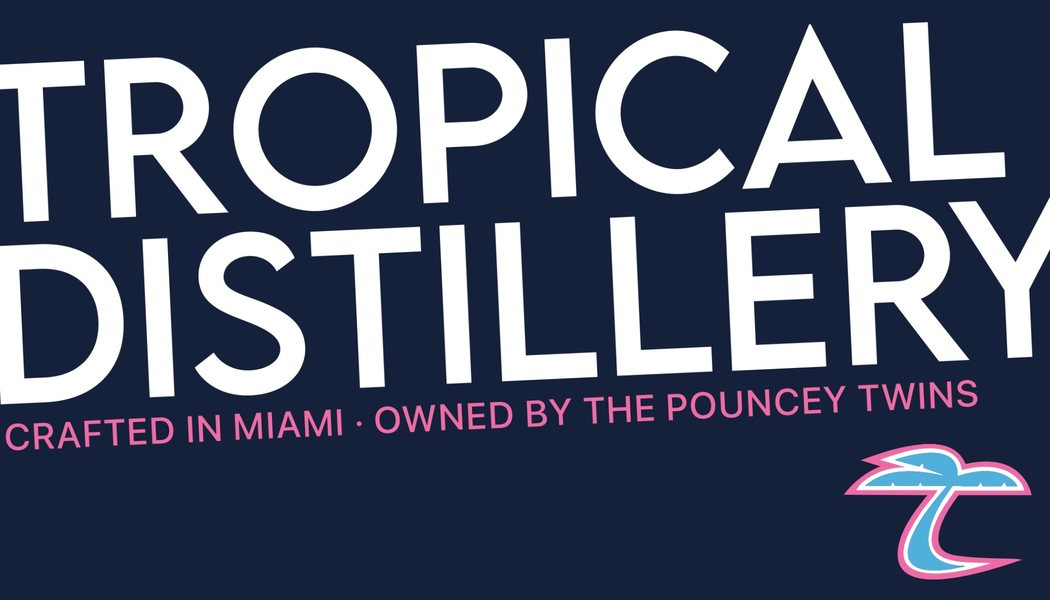
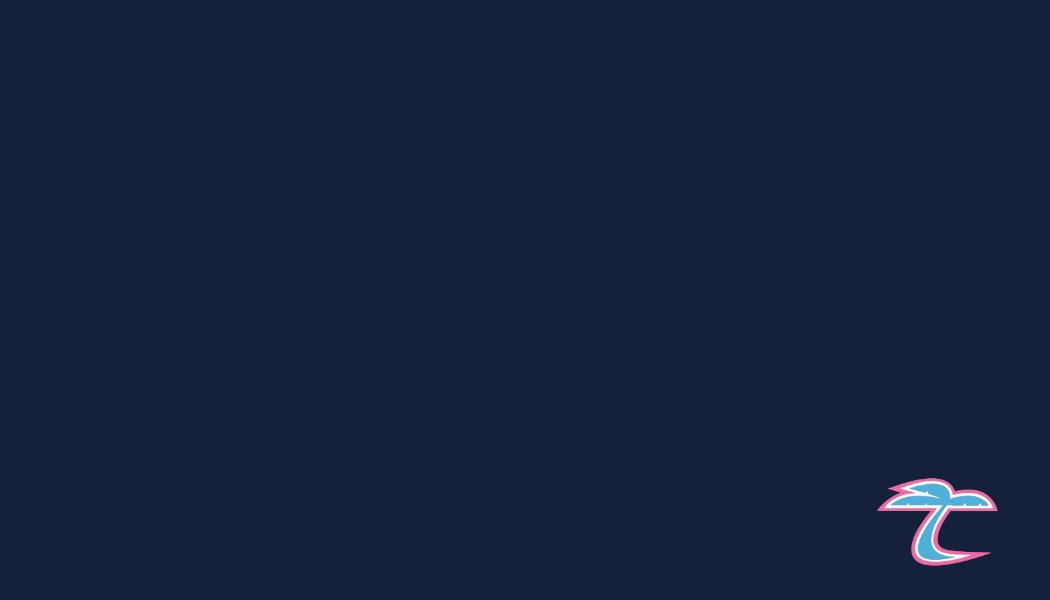
Business cards: a new back, level, with the Instagram handles
TROPICAL DISTILLERY now sits level in two lines of the same width, with
the tagline in pink under it and the palm in the bottom right corner. A
row along the bottom gives the Instagram handles: @j.f.hadens,
@twinpwhiskey and @tropicaldistillery.

Like the front, the back is now its artwork (the navy with the palm, lifted
out of the old back) with the type drawn over it, so the print files carry
crisp type and the handles live in card.js.

Claude-Session: https://claude.ai/code/session_01QoFnCLNNezC9oA7k9kY3hP

Changed region(s): [[0.0, 0.03, 1.0, 0.75], [0.7924, 0.72, 1.0, 0.99]]

diff --git a/public/assets/card.js b/public/assets/card.js
@@ -114,9 +114,35 @@ export function cardFront(details = {}, { print = false, label = "" } = {}) {
   return svg;
 }
 
-/** The fixed navy back: TROPICAL DISTILLERY, crafted in Miami. */
+// The back: TROPICAL DISTILLERY in two lines of Jost the same width, the
+// tagline in pink, and the Instagram handles along the bottom, over the navy
+// artwork with the palm in the bottom right corner.
+const PINK = "#ef6aa8";
+const WORDMARK = [
+  { text: "TROPICAL", y: 440, size: 428.4 },
+  { text: "DISTILLERY", y: 790, size: 395.5 },
+];
+const TAGLINE = { text: "CRAFTED IN MIAMI · OWNED BY THE POUNCEY TWINS", x: 114, y: 900, size: 62, spacing: "0.06em" };
+export const INSTAGRAM = ["@j.f.hadens", "@twinpwhiskey", "@tropicaldistillery"];
+const HANDLES = { x: 200, y: 1030, size: 58, spacing: "0.01em", gap: 34 };
+const GLYPH = { x: 112, size: 58 };
+
+// Instagram's glyph, outlined on a 24-unit grid.
+function instagramGlyph() {
+  const top = HANDLES.y - 0.36 * HANDLES.size - GLYPH.size / 2;
+  const g = node("g", { fill: "none", stroke: PINK, "stroke-width": 2, transform: `translate(${GLYPH.x} ${top.toFixed(1)}) scale(${GLYPH.size / 24})`, "aria-hidden": "true" });
+  g.append(node("rect", { x: 2.5, y: 2.5, width: 19, height: 19, rx: 5.5 }), node("circle", { cx: 12, cy: 12, r: 4.6 }), node("circle", { cx: 17.4, cy: 6.6, r: 1.25, fill: PINK, stroke: "none" }));
+  return g;
+}
+
+/** The back, the same on every card. `print` uses the full-resolution artwork. */
 export function cardBack({ print = false } = {}) {
-  const svg = node("svg", { viewBox: `0 0 ${CARD_WIDTH} ${CARD_HEIGHT}`, class: "bcard bcard-back", role: "img", "aria-label": "Back of the card: Tropical Distillery, crafted in Miami, owned by the Pouncey twins" });
+  const svg = node("svg", {
+    viewBox: `0 0 ${CARD_WIDTH} ${CARD_HEIGHT}`,
+    class: "bcard bcard-back",
+    role: "img",
+    "aria-label": `Back of the card: Tropical Distillery, crafted in Miami, owned by the Pouncey twins. On Instagram: ${INSTAGRAM.join(", ")}`,
+  });
   svg.append(
     node("image", {
       href: `/assets/business-card/${print ? "back" : "back-preview"}.jpg`,
@@ -127,6 +153,21 @@ export function cardBack({ print = false } = {}) {
       preserveAspectRatio: "none",
     })
   );
+  for (const word of WORDMARK) {
+    // a touch of outline makes Jost Regular as heavy as the old lettering
+    const text = line(word.text, { x: LEFT - 2, y: word.y, size: word.size, fill: "#ffffff" });
+    text.setAttribute("stroke", "#ffffff");
+    text.setAttribute("stroke-width", 5);
+    text.setAttribute("stroke-linejoin", "round");
+    svg.append(text);
+  }
+  svg.append(line(TAGLINE.text, { ...TAGLINE, fill: PINK }), instagramGlyph());
+  const handles = line("", { ...HANDLES, fill: "#ffffff" });
+  INSTAGRAM.forEach((handle, i) => {
+    if (i) handles.append(node("tspan", { dx: HANDLES.gap, fill: PINK }, "·"));
+    handles.append(node("tspan", i ? { dx: HANDLES.gap } : {}, handle));
+  });
+  svg.append(handles);
   return svg;
 }
 

diff --git a/public/assets/card-files.js b/public/assets/card-files.js
@@ -2,8 +2,9 @@
 // Vistaprint's: one PDF per side at their full-bleed size for a 3.5 x 2 in
 // card (3.61 x 2.11 in: the 3.5 x 2 in card plus 0.055 in all round, which is
 // trimmed off), at 600 dpi. They're made here in the browser from the same
-// drawing as the proof. The artwork has no bleed of its own, so its edges
-// are mirrored out into it; the text stays well inside the safe area.
+// drawing as the proof: each side's artwork with its type over it. The
+// artwork has no bleed of its own, so its edges are mirrored out into it; the
+// type stays well inside the safe area.
 
 import { CARD_HEIGHT, CARD_WIDTH, cardBack, cardFront, fitCard } from "./card.js";
 
@@ -50,9 +51,9 @@ function embeddedFonts() {
   return fontCss;
 }
 
-// The card's text, fitted exactly as on the proof, as an image to draw.
-async function textLayer(details) {
-  const svg = cardFront(details, { print: true });
+// A side's type and icons, fitted exactly as on the proof, as an image to
+// draw over its artwork.
+async function textLayer(svg) {
   svg.querySelector("image")?.remove();
   svg.setAttribute("width", CARD_WIDTH);
   svg.setAttribute("height", CARD_HEIGHT);
@@ -151,15 +152,16 @@ export function jpegPdf(jpeg, { width, height, bleed, title }) {
 
 /** One side of a card, `front` or `back`, as a print-ready PDF. */
 export async function cardSidePdf(details, side) {
-  const art = (side === "front" ? cardFront({}, { print: true }) : cardBack({ print: true })).querySelector("image").getAttribute("href");
-  const [background, text] = await Promise.all([loadImage(art), side === "front" ? textLayer(details) : null]);
+  const svg = side === "front" ? cardFront(details, { print: true }) : cardBack({ print: true });
+  const art = svg.querySelector("image").getAttribute("href");
+  const [background, text] = await Promise.all([loadImage(art), textLayer(svg)]);
   const canvas = document.createElement("canvas");
   canvas.width = FULL_WIDTH;
   canvas.height = FULL_HEIGHT;
   const ctx = canvas.getContext("2d");
   ctx.imageSmoothingQuality = "high";
   drawArtwork(ctx, background);
-  if (text) ctx.drawImage(text, BLEED, BLEED, CARD_WIDTH, CARD_HEIGHT);
+  ctx.drawImage(text, BLEED, BLEED, CARD_WIDTH, CARD_HEIGHT);
   const jpeg = await canvasJpeg(canvas);
   return jpegPdf(jpeg, { width: FULL_WIDTH, height: FULL_HEIGHT, bleed: BLEED, title: `Business card for ${details.name}, ${side}` });
 }
